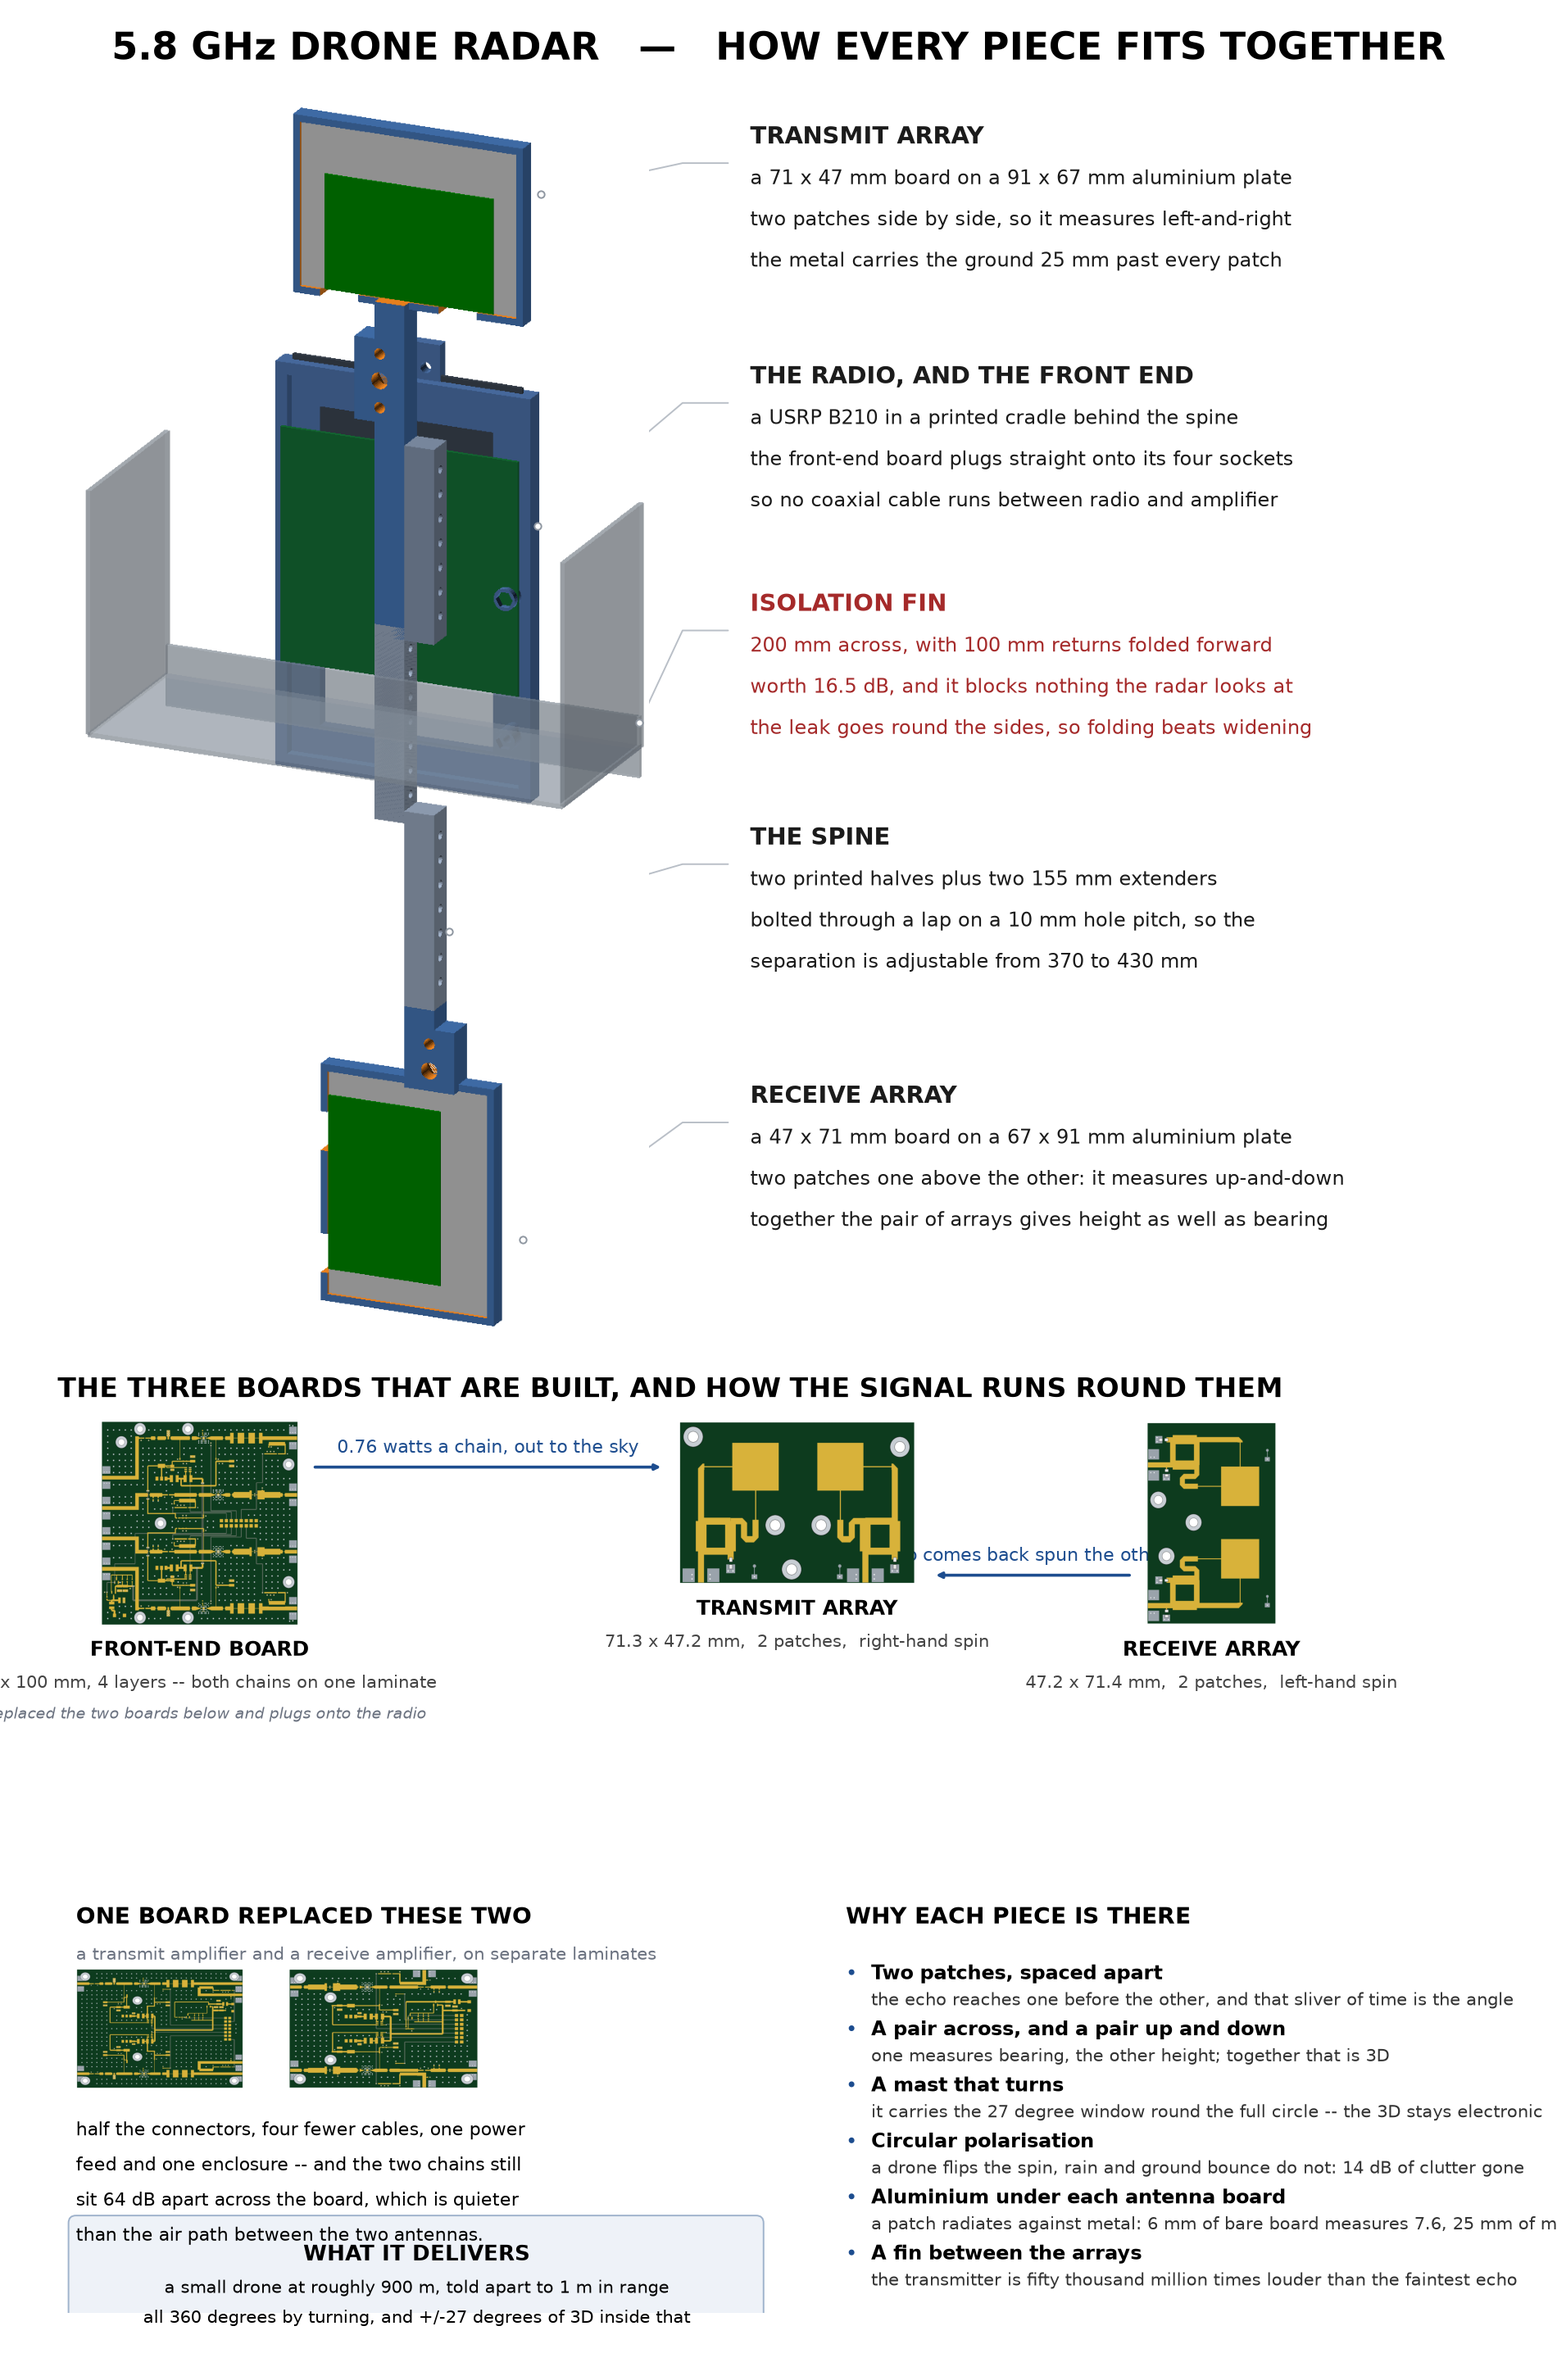
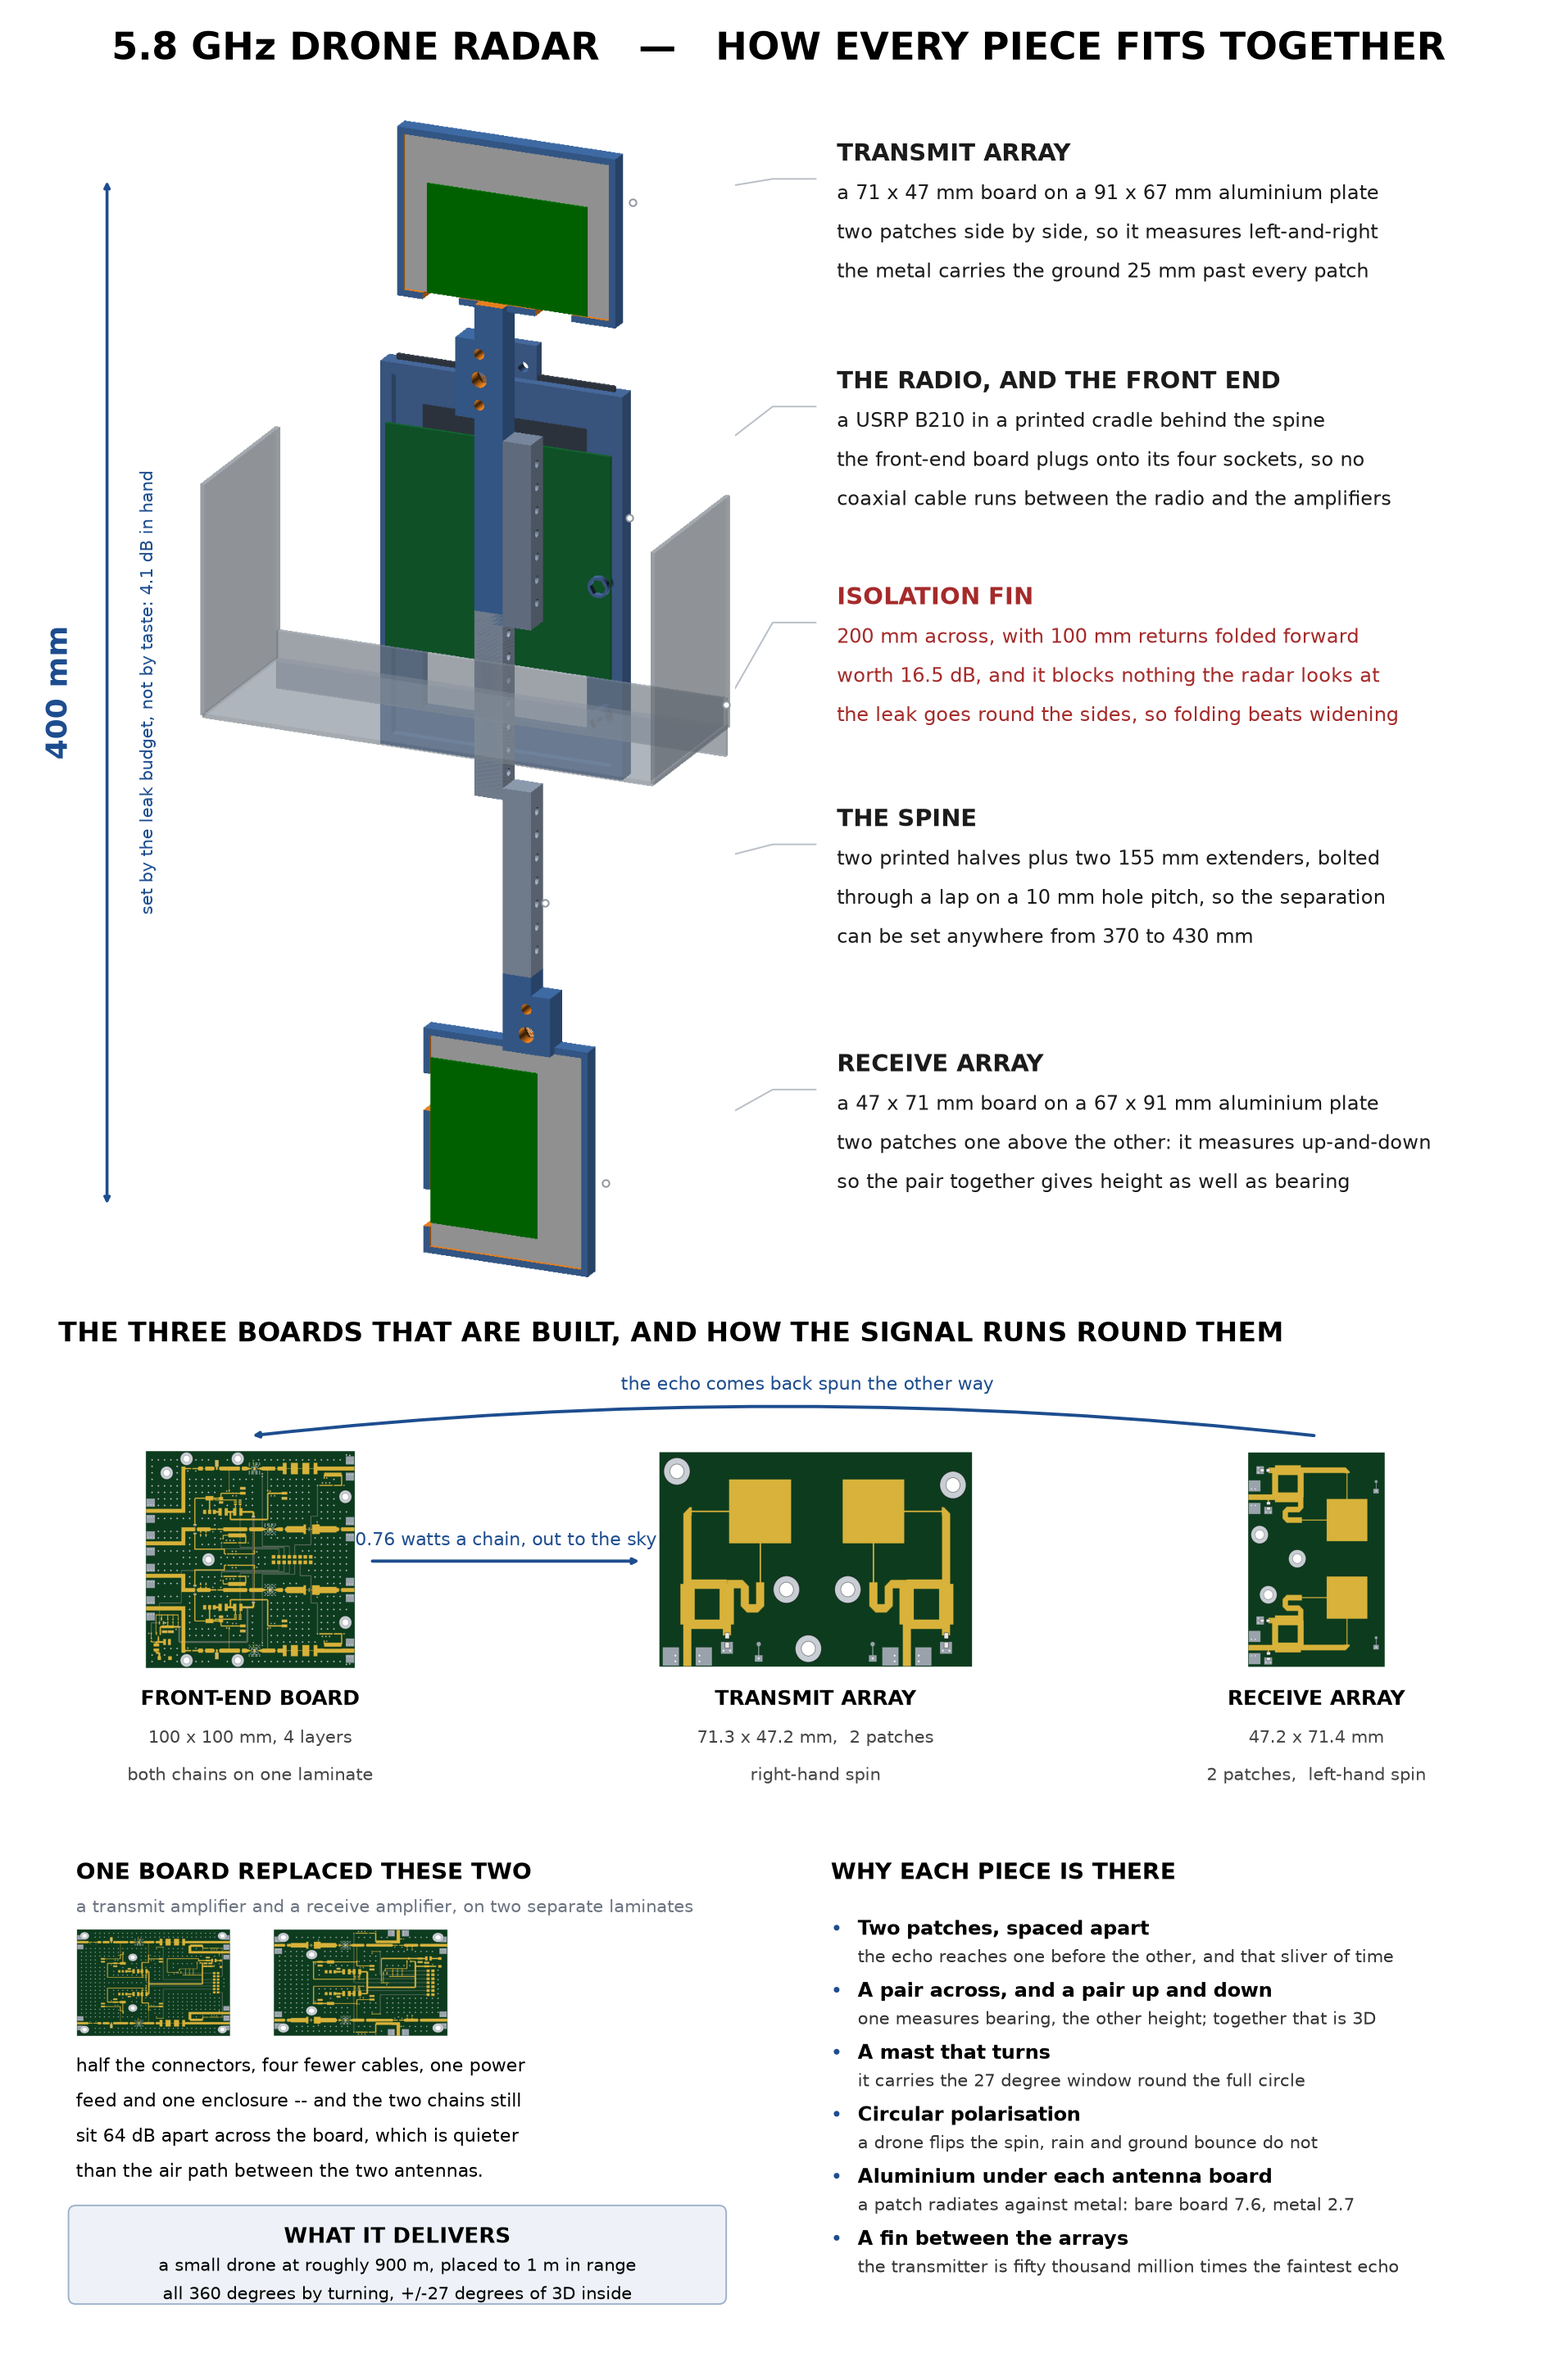
Auto-update: 2026-08-11 09:36:20

diff --git a/design/mk_system.py b/design/mk_system.py
@@ -41,133 +41,126 @@ def place(ax, key, x, ytop, hgt, sx, sy):
 
 
 # ------------------------------------------------- the stack, and its labels
-RC = [0.020, 0.437, 0.960, 0.528]
-axs = panel(RC, (0, 1.136), (0, 1.02), equal=True)
+axs = panel([0.020, 0.452, 0.960, 0.513], (-0.14, 1.14), (0, 1.02), equal=True)
 AR = STACK.shape[1] / STACK.shape[0]
 axs.imshow(STACK, extent=[0.0, AR, 0.005, 1.005], zorder=4)
 
-CX, DY = 0.545, 0.0335
-def call(ax_pt, y, head, lines, colour=INK):
-    axs.plot([ax_pt[0], CX - 0.055, CX - 0.018], [ax_pt[1], y, y],
+CX, DY = 0.550, 0.0335
+def call(pt, y, head, lines, colour=INK):
+    axs.plot([pt[0], CX - 0.055, CX - 0.018], [pt[1], y, y],
              color='#b9bfc7', lw=1.4, zorder=2, solid_capstyle='round')
-    axs.plot([ax_pt[0]], [ax_pt[1]], 'o', ms=6, mfc='white',
-             mec='#8f97a1', mew=1.4, zorder=6)
+    axs.plot([pt[0]], [pt[1]], 'o', ms=6, mfc='white', mec='#8f97a1',
+             mew=1.4, zorder=6)
     axs.text(CX, y + 0.021, head, fontsize=21, fontweight='bold',
              va='center', color=colour)
     for i, t in enumerate(lines):
         axs.text(CX, y - 0.013 - i * DY, t, fontsize=17, color=colour,
                  va='center')
 
-call((0.375, 0.930), 0.955, "TRANSMIT ARRAY", [
+call((0.375, 0.930), 0.950, "TRANSMIT ARRAY", [
      "a 71 x 47 mm board on a 91 x 67 mm aluminium plate",
      "two patches side by side, so it measures left-and-right",
      "the metal carries the ground 25 mm past every patch"])
-call((0.372, 0.660), 0.760, "THE RADIO, AND THE FRONT END", [
+call((0.372, 0.660), 0.755, "THE RADIO, AND THE FRONT END", [
      "a USRP B210 in a printed cradle behind the spine",
-     "the front-end board plugs straight onto its four sockets",
-     "so no coaxial cable runs between radio and amplifier"])
-call((0.455, 0.500), 0.575, "ISOLATION FIN", [
+     "the front-end board plugs onto its four sockets, so no",
+     "coaxial cable runs between the radio and the amplifiers"])
+call((0.455, 0.500), 0.570, "ISOLATION FIN", [
      "200 mm across, with 100 mm returns folded forward",
      "worth 16.5 dB, and it blocks nothing the radar looks at",
      "the leak goes round the sides, so folding beats widening"], RED)
-call((0.300, 0.330), 0.385, "THE SPINE", [
-     "two printed halves plus two 155 mm extenders",
-     "bolted through a lap on a 10 mm hole pitch, so the",
-     "separation is adjustable from 370 to 430 mm"])
-call((0.360, 0.080), 0.175, "RECEIVE ARRAY", [
+call((0.300, 0.330), 0.380, "THE SPINE", [
+     "two printed halves plus two 155 mm extenders, bolted",
+     "through a lap on a 10 mm hole pitch, so the separation",
+     "can be set anywhere from 370 to 430 mm"])
+call((0.352, 0.090), 0.170, "RECEIVE ARRAY", [
      "a 47 x 71 mm board on a 67 x 91 mm aluminium plate",
      "two patches one above the other: it measures up-and-down",
-     "together the pair of arrays gives height as well as bearing"])
+     "so the pair together gives height as well as bearing"])
 
-axs.annotate('', xy=(0.075, 0.945), xytext=(0.075, 0.075),
+axs.annotate('', xy=(-0.075, 0.950), xytext=(-0.075, 0.070),
              arrowprops=dict(arrowstyle='<->', lw=2.6, color=BLUE))
-axs.text(0.093, 0.560, "400 mm", color=BLUE, fontsize=27, fontweight='bold',
+axs.text(-0.116, 0.510, "400 mm", color=BLUE, fontsize=26, fontweight='bold',
          rotation=90, ha='center', va='center')
-for i, t in enumerate(["chosen from the leak budget,",
-                       "not from taste: it leaves", "4.1 dB in hand"]):
-    axs.text(0.148, 0.560 - (i - 1) * 0.030, t, color=BLUE, fontsize=16,
-             rotation=90, ha='center', va='center')
+axs.text(-0.040, 0.510, "set by the leak budget, not by taste: 4.1 dB in hand",
+         color=BLUE, fontsize=15, rotation=90, ha='center', va='center')
 
 # ------------------------------------------------- the live boards, in order
-axb = panel([0.020, 0.243, 0.960, 0.182], (0, 10), (0, 3))
-SX, SY = 0.960 * W * DPI / 10.0, 0.182 * H * DPI / 3.0
-axb.text(0.0, 2.93, "THE THREE BOARDS THAT ARE BUILT, AND HOW THE SIGNAL "
+axb = panel([0.020, 0.246, 0.960, 0.200], (0, 10), (0.15, 3.45))
+SX, SY = 0.960 * W * DPI / 10.0, 0.200 * H * DPI / 3.30
+axb.text(0.0, 3.42, "THE THREE BOARDS THAT ARE BUILT, AND HOW THE SIGNAL "
          "RUNS ROUND THEM", fontsize=24, fontweight='bold', va='top')
 
-
-def caption(x, w, ytop, hgt, title, sub, note=None):
-    axb.text(x + w / 2, ytop - hgt - 0.10, title, ha='center', fontsize=18,
+TOP, HGT = 2.52, 1.52
+def board(key, x, title, sub):
+    w = place(axb, key, x, TOP, HGT, SX, SY)
+    axb.text(x + w / 2, TOP - HGT - 0.14, title, ha='center', fontsize=18,
              fontweight='bold', va='top')
-    axb.text(x + w / 2, ytop - hgt - 0.34, sub, ha='center', fontsize=15,
-             color='#444', va='top')
-    if note:
-        axb.text(x + w / 2, ytop - hgt - 0.56, note, ha='center', fontsize=14,
-                 color=GREY, style='italic', va='top')
+    for i, t in enumerate(sub):
+        axb.text(x + w / 2, TOP - HGT - 0.42 - i * 0.26, t, ha='center',
+                 fontsize=15, color='#444', va='top')
+    return w
 
+wf = board('fe', 0.60, "FRONT-END BOARD",
+           ["100 x 100 mm, 4 layers", "both chains on one laminate"])
+wt = board('tx', 4.15, "TRANSMIT ARRAY",
+           ["71.3 x 47.2 mm,  2 patches", "right-hand spin"])
+wr = board('rx', 8.25, "RECEIVE ARRAY",
+           ["47.2 x 71.4 mm", "2 patches,  left-hand spin"])
 
-TOP, HGT = 2.62, 1.42
-w = place(axb, 'fe', 0.30, TOP, HGT, SX, SY)
-caption(0.30, w, TOP, HGT, "FRONT-END BOARD",
-        "100 x 100 mm, 4 layers -- both chains on one laminate",
-        "it replaced the two boards below and plugs onto the radio")
-w2 = place(axb, 'tx', 4.30, TOP, HGT * 0.80, SX, SY)
-caption(4.30, w2, TOP, HGT * 0.80, "TRANSMIT ARRAY",
-        "71.3 x 47.2 mm,  2 patches,  right-hand spin")
-w3 = place(axb, 'rx', 7.55, TOP, HGT, SX, SY)
-caption(7.55, w3, TOP, HGT, "RECEIVE ARRAY",
-        "47.2 x 71.4 mm,  2 patches,  left-hand spin")
-
-axb.annotate('', xy=(4.20, 2.30), xytext=(0.30 + w + 0.10, 2.30),
-             arrowprops=dict(arrowstyle='-|>', lw=2.6, color=BLUE))
-axb.text((4.30 + 0.30 + w) / 2, 2.40, "0.76 watts a chain, out to the sky",
+axb.annotate('', xy=(4.05, 1.75), xytext=(0.60 + wf + 0.10, 1.75),
+             arrowprops=dict(arrowstyle='-|>', lw=2.8, color=BLUE))
+axb.text((4.05 + 0.70 + wf) / 2, 1.86, "0.76 watts a chain, out to the sky",
          ha='center', fontsize=16, color=BLUE)
-axb.annotate('', xy=(4.30 + w2 + 0.12, 1.55), xytext=(7.45, 1.55),
-             arrowprops=dict(arrowstyle='-|>', lw=2.6, color=BLUE))
-axb.text((7.45 + 4.30 + w2) / 2, 1.65, "the echo comes back spun the other way",
+axb.annotate('', xy=(0.60 + wf / 2, 2.62), xytext=(8.25 + wr / 2, 2.62),
+             arrowprops=dict(arrowstyle='-|>', lw=2.8, color=BLUE,
+                             connectionstyle='arc3,rad=0.055'))
+axb.text(5.20, 2.94, "the echo comes back spun the other way",
          ha='center', fontsize=16, color=BLUE)
 
-# ------------------------------------------------- superseded pair, and why
-axt = panel([0.020, 0.010, 0.960, 0.222], (0, 10), (0, 3))
-TX2, HG2 = 2.30, 0.80
-w4 = place(axt, 'pa', 0.30, TX2, HG2, SX, 0.222 * H * DPI / 3.0)
-w5 = place(axt, 'lna', 0.30 + w4 + 0.30, TX2, HG2, SX, 0.222 * H * DPI / 3.0)
-axt.text(0.30, TX2 + 0.42, "ONE BOARD REPLACED THESE TWO", fontsize=20,
+# ------------------------------------------- superseded pair, and the reasons
+axt = panel([0.020, 0.010, 0.960, 0.228], (0, 10), (0, 3))
+SY2 = 0.228 * H * DPI / 3.0
+axt.text(0.30, 2.97, "ONE BOARD REPLACED THESE TWO", fontsize=20,
          fontweight='bold', va='top')
-axt.text(0.30, TX2 + 0.15, "a transmit amplifier and a receive amplifier, "
-         "on separate laminates", fontsize=15, color=GREY, va='top')
+axt.text(0.30, 2.72, "a transmit amplifier and a receive amplifier, on "
+         "two separate laminates", fontsize=15, color=GREY, va='top')
+w4 = place(axt, 'pa', 0.30, 2.52, 0.72, SX, SY2)
+place(axt, 'lna', 0.30 + w4 + 0.28, 2.52, 0.72, SX, SY2)
 for i, t in enumerate(["half the connectors, four fewer cables, one power",
                        "feed and one enclosure -- and the two chains still",
                        "sit 64 dB apart across the board, which is quieter",
                        "than the air path between the two antennas."]):
-    axt.text(0.30, TX2 - HG2 - 0.22 - i * 0.235, t, fontsize=16, va='top')
+    axt.text(0.30, 1.66 - i * 0.235, t, fontsize=16, va='top')
 
-axt.text(5.45, TX2 + 0.42, "WHY EACH PIECE IS THERE", fontsize=20,
+axt.add_patch(FancyBboxPatch((0.30, 0.06), 4.30, 0.56,
+                             boxstyle='round,pad=0.05', fc='#eef2f8',
+                             ec='#9fb3cc', lw=1.4))
+axt.text(2.45, 0.53, "WHAT IT DELIVERS", ha='center', fontsize=19,
+         fontweight='bold', va='top')
+for i, t in enumerate(["a small drone at roughly 900 m, placed to 1 m in range",
+                       "all 360 degrees by turning, +/-27 degrees of 3D inside"]):
+    axt.text(2.45, 0.32 - i * 0.19, t, ha='center', fontsize=15, va='top')
+
+axt.text(5.35, 2.97, "WHY EACH PIECE IS THERE", fontsize=20,
          fontweight='bold', va='top')
 ROWS = [("Two patches, spaced apart",
-         "the echo reaches one before the other, and that sliver of time is the angle"),
+         "the echo reaches one before the other, and that sliver of time"),
         ("A pair across, and a pair up and down",
          "one measures bearing, the other height; together that is 3D"),
         ("A mast that turns",
-         "it carries the 27 degree window round the full circle -- the 3D stays electronic"),
+         "it carries the 27 degree window round the full circle"),
         ("Circular polarisation",
-         "a drone flips the spin, rain and ground bounce do not: 14 dB of clutter gone"),
+         "a drone flips the spin, rain and ground bounce do not"),
         ("Aluminium under each antenna board",
-         "a patch radiates against metal: 6 mm of bare board measures 7.6, 25 mm of metal 2.7"),
+         "a patch radiates against metal: bare board 7.6, metal 2.7"),
         ("A fin between the arrays",
-         "the transmitter is fifty thousand million times louder than the faintest echo")]
-for i, (h, s) in enumerate(ROWS):
-    y = TX2 + 0.03 - i * 0.375
-    axt.text(5.45, y, "•", fontsize=17, va='top', color=BLUE)
-    axt.text(5.62, y, h, fontsize=17, fontweight='bold', va='top')
-    axt.text(5.62, y - 0.185, s, fontsize=15, color='#333', va='top')
-
-axt.add_patch(FancyBboxPatch((0.30, -0.02), 4.55, 0.62, boxstyle='round,pad=0.05',
-                             fc='#eef2f8', ec='#9fb3cc', lw=1.4))
-axt.text(2.58, 0.46, "WHAT IT DELIVERS", ha='center', fontsize=19,
-         fontweight='bold', va='top')
-for i, t in enumerate(["a small drone at roughly 900 m, told apart to 1 m in range",
-                       "all 360 degrees by turning, and +/-27 degrees of 3D inside that"]):
-    axt.text(2.58, 0.22 - i * 0.20, t, ha='center', fontsize=15, va='top')
+         "the transmitter is fifty thousand million times the faintest echo")]
+for i, (h, sub) in enumerate(ROWS):
+    y = 2.58 - i * 0.415
+    axt.text(5.35, y, "\u2022", fontsize=17, va='top', color=BLUE)
+    axt.text(5.53, y, h, fontsize=17, fontweight='bold', va='top')
+    axt.text(5.53, y - 0.195, sub, fontsize=15, color='#333', va='top')
 
 plt.savefig('SYSTEM.png', dpi=DPI, facecolor='white')
 print("  SYSTEM.png  %.0f x %.0f px" % (W * DPI, H * DPI))
